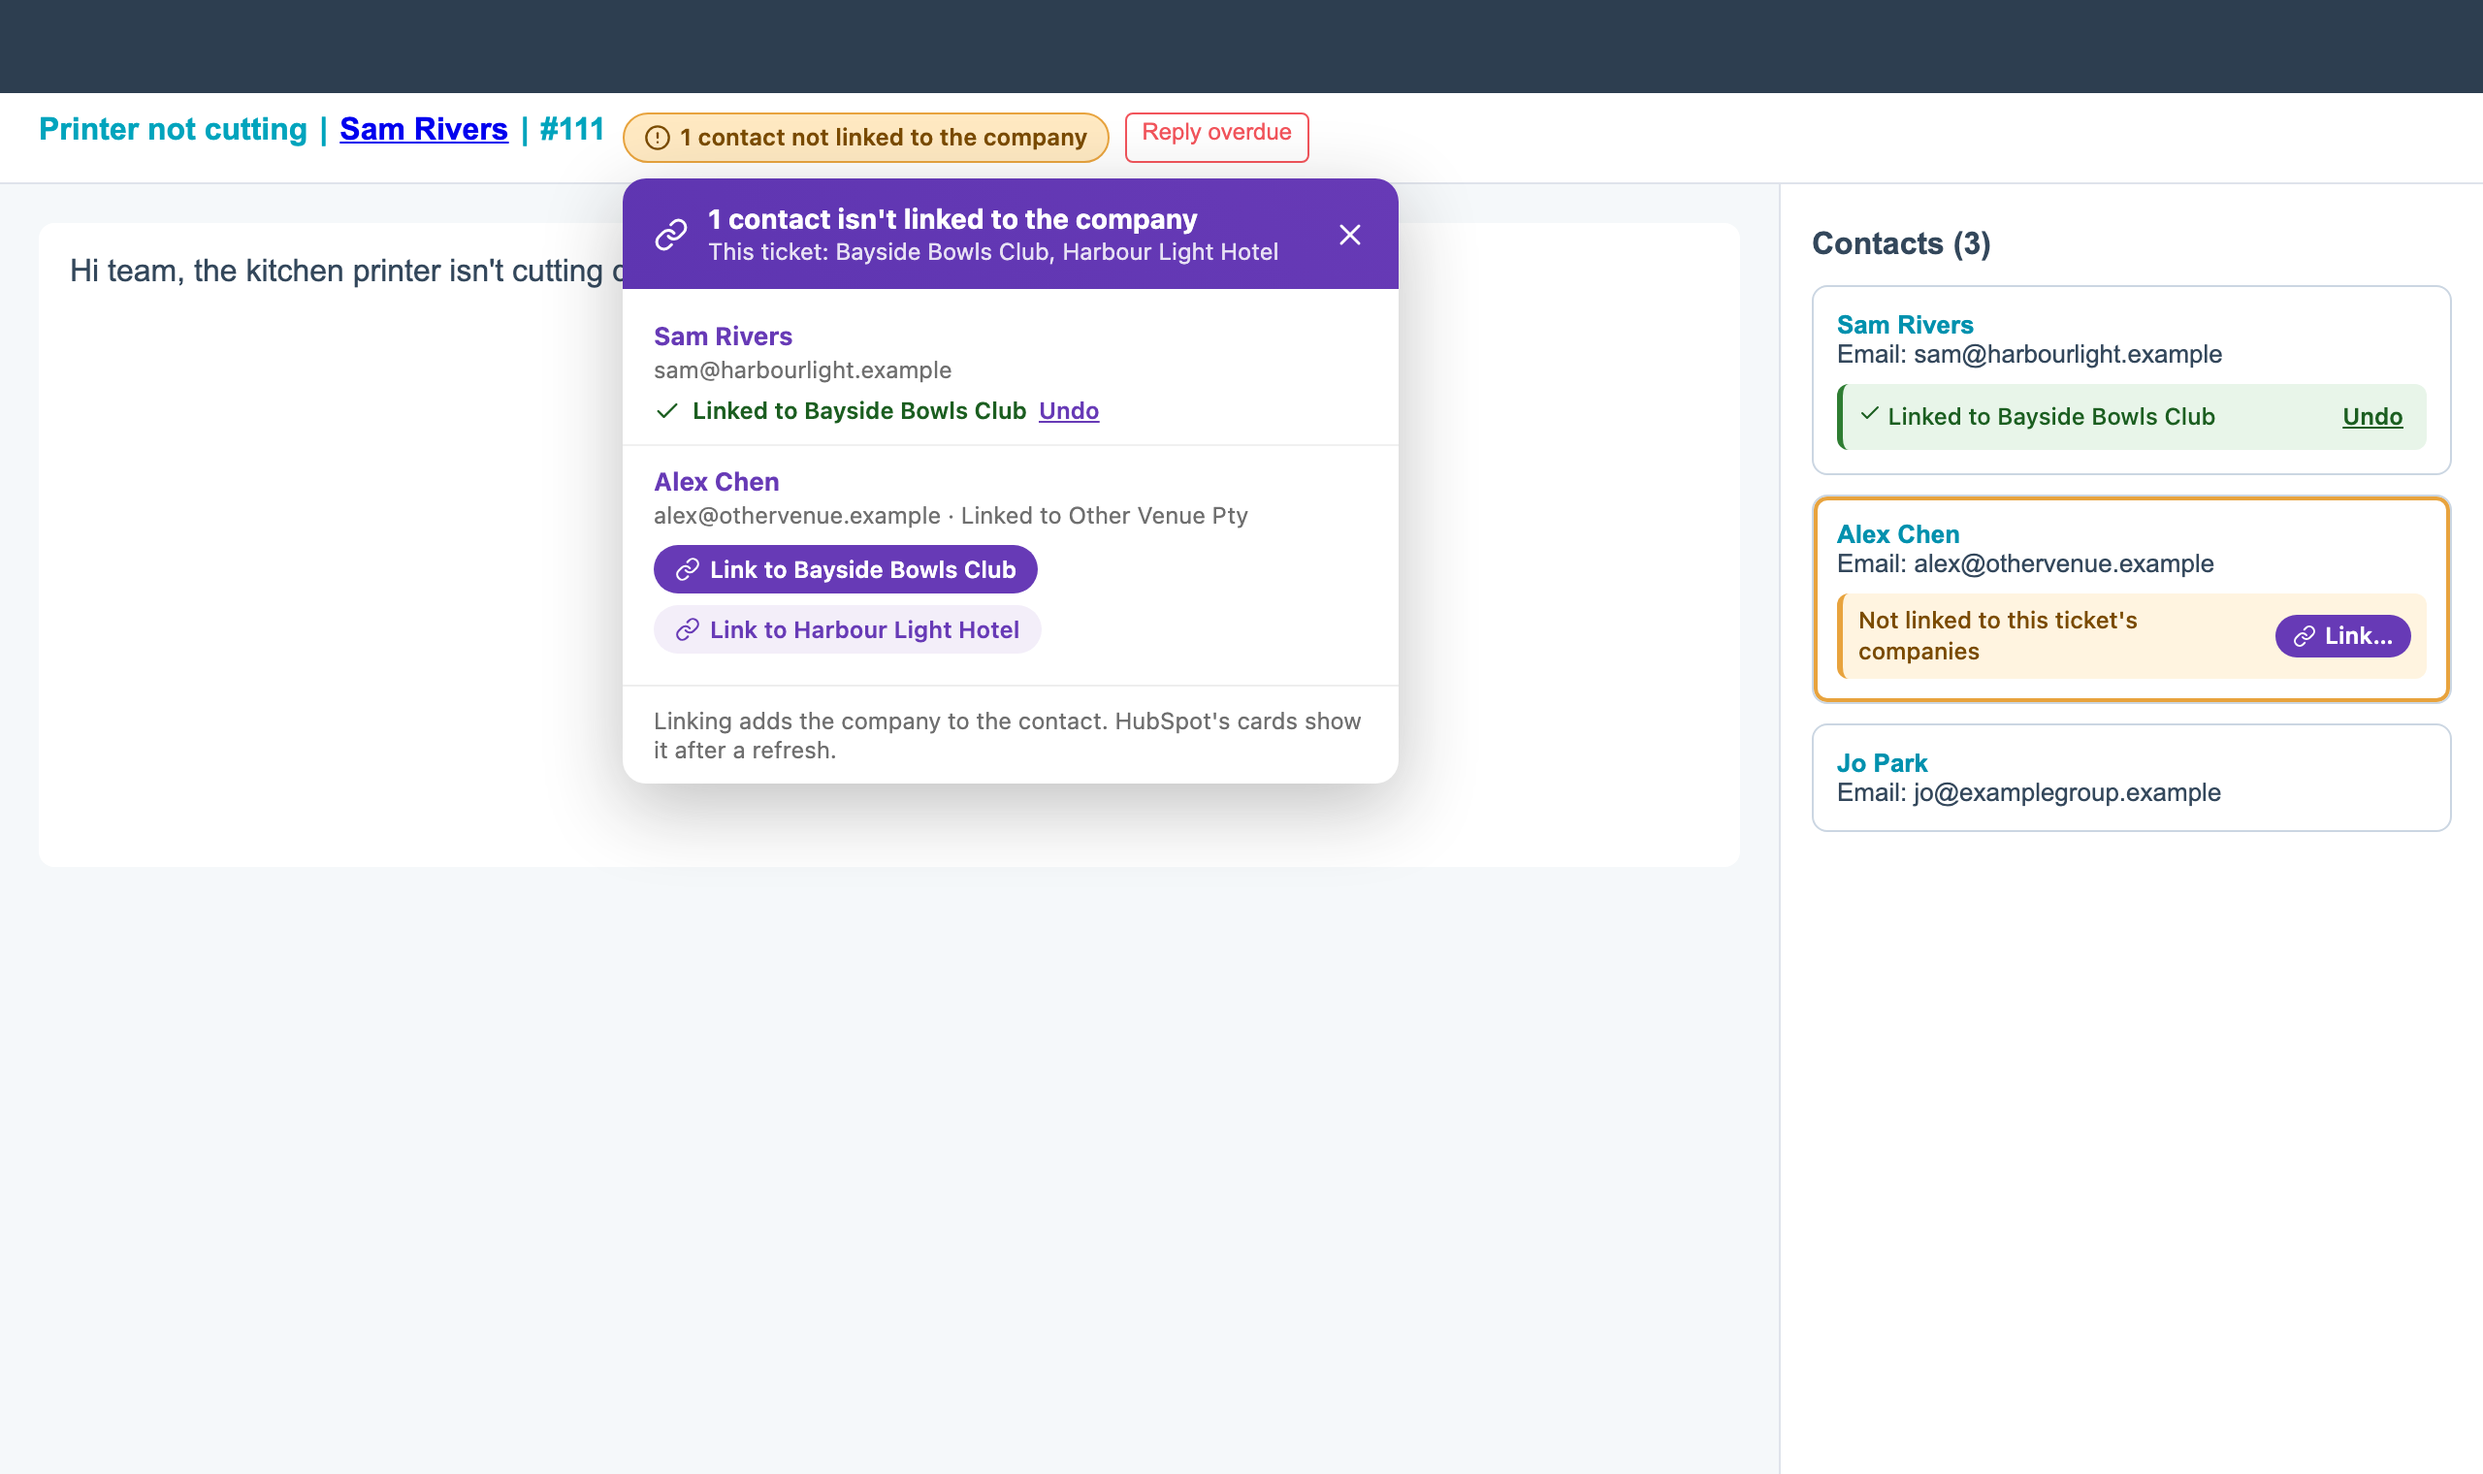
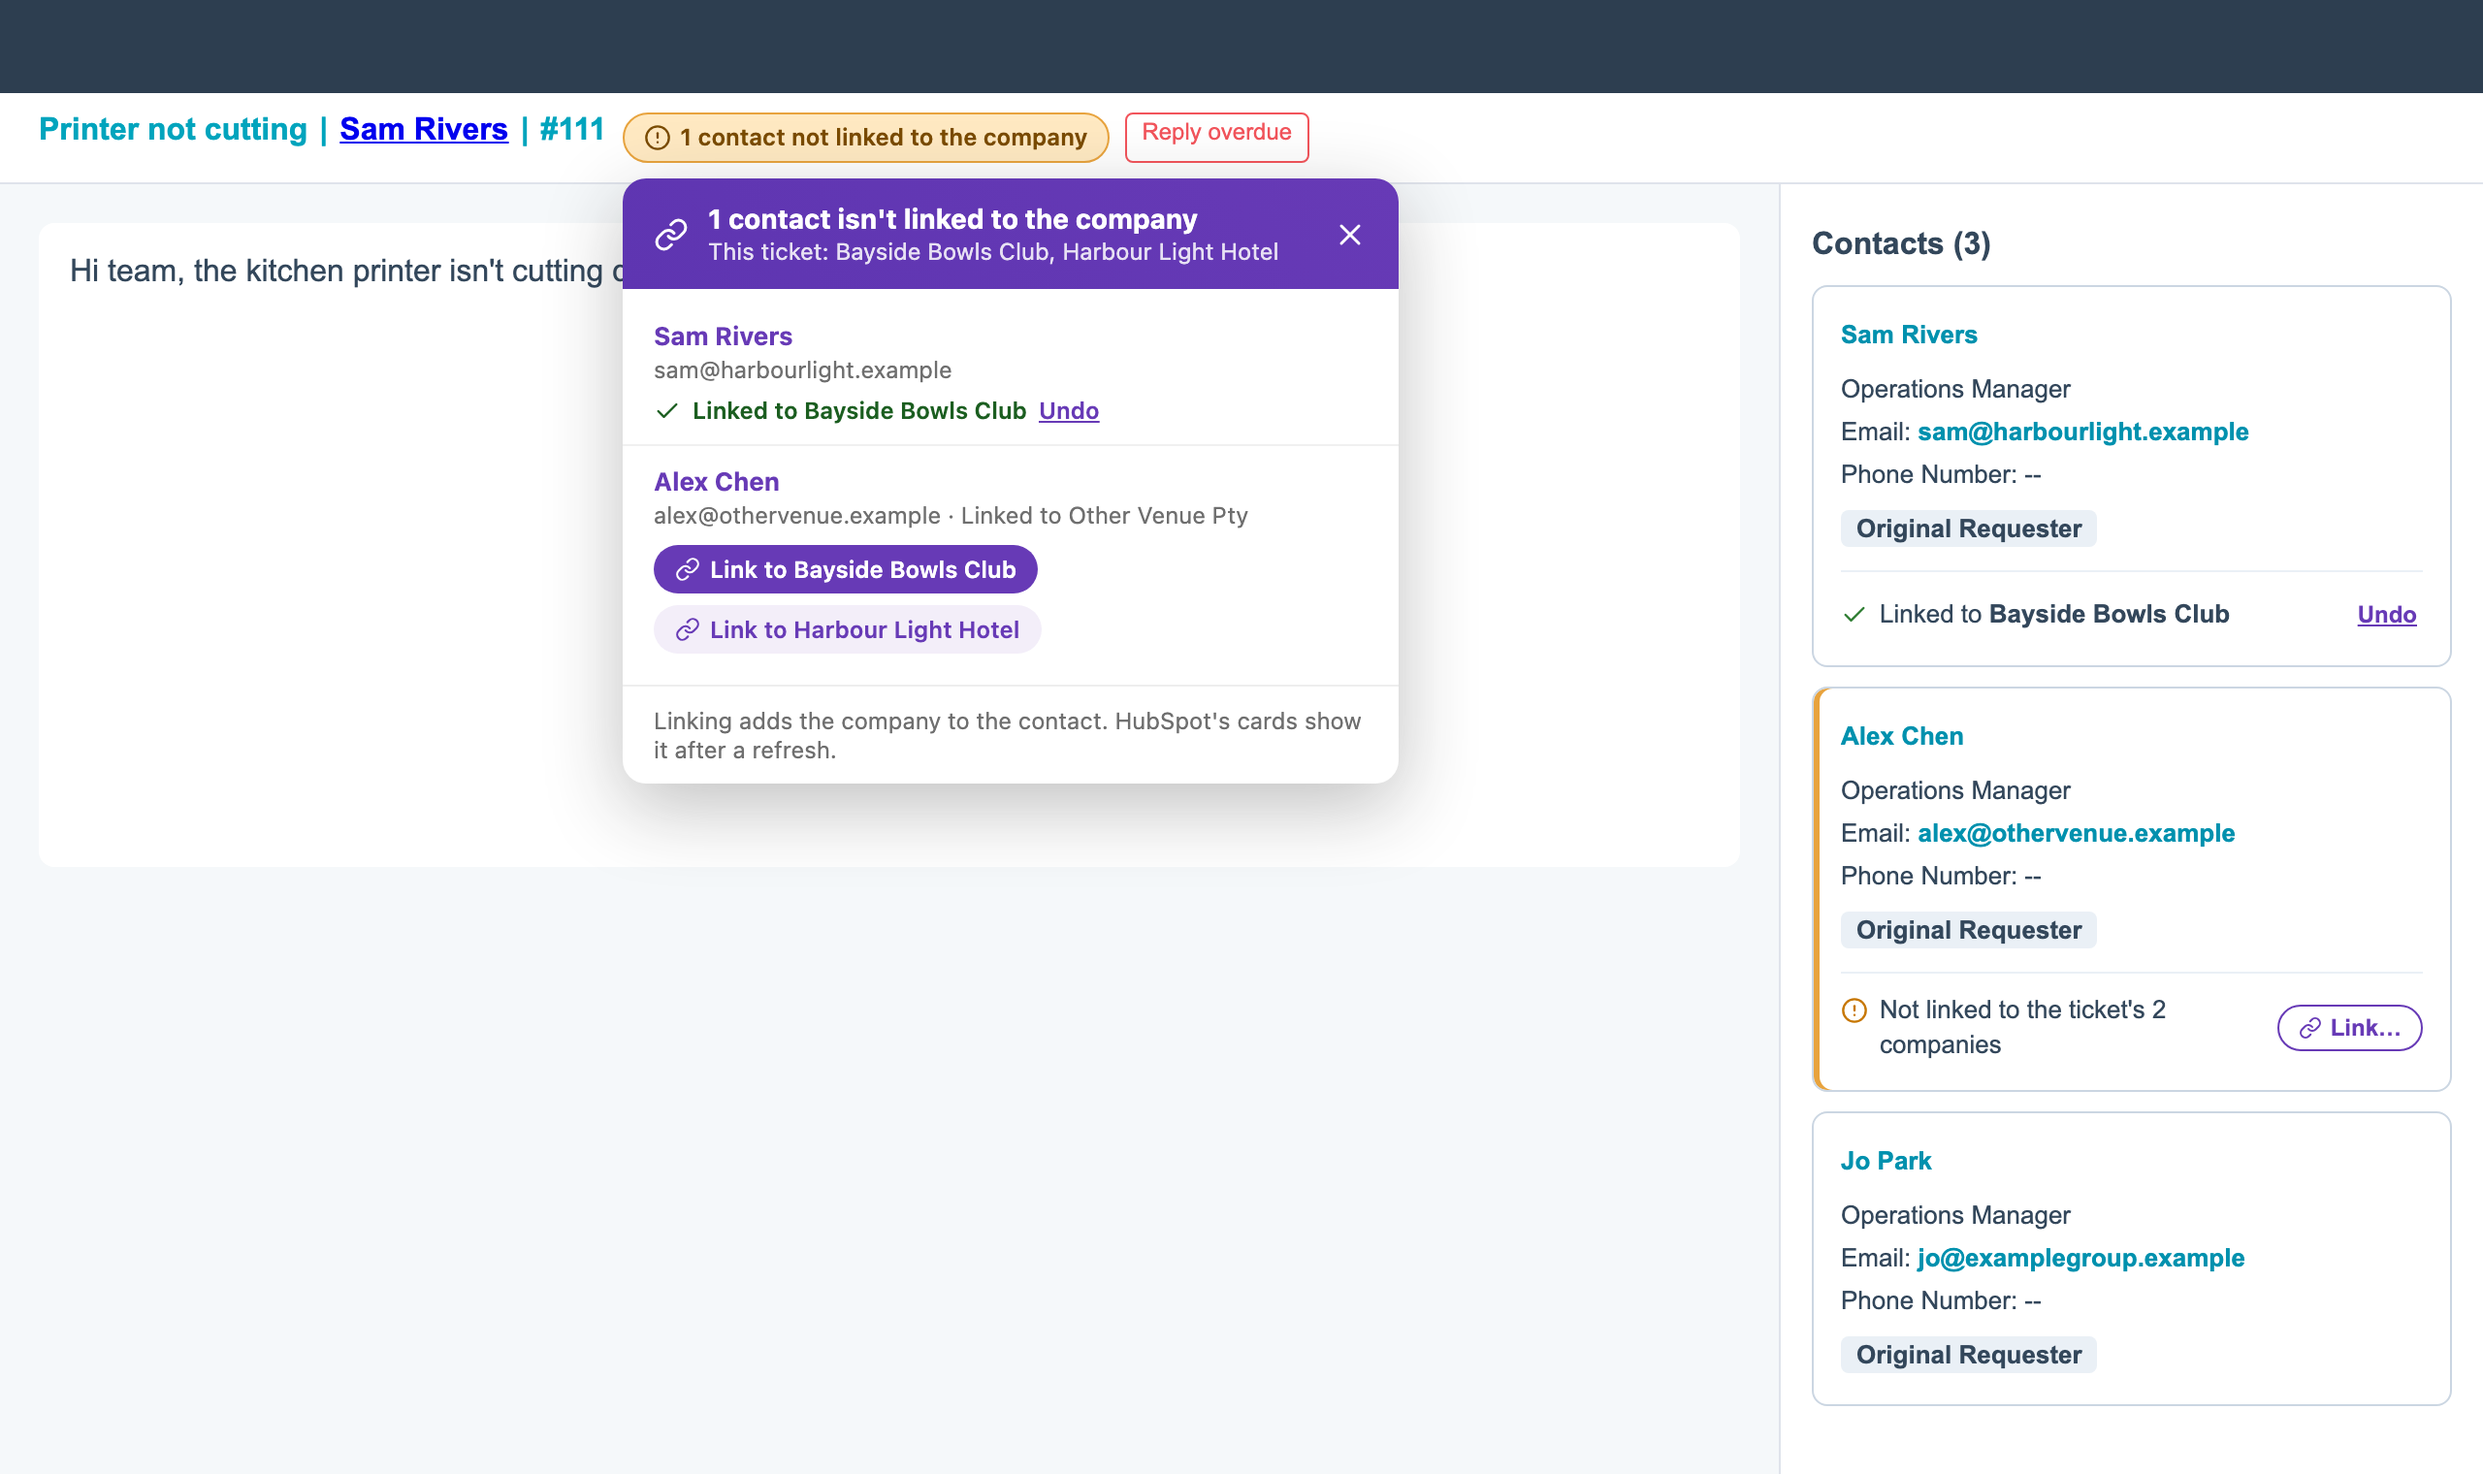
Unlinked contacts 1.0.1: tidier line on the contact card

Changed region(s): [[0.7188, 0.2164, 1.0, 0.7421], [0.75, 0.773, 0.9062, 0.9276], [0.9062, 0.6803, 0.9688, 0.7112]]

diff --git a/hubspot/unlinked-contacts.user.js b/hubspot/unlinked-contacts.user.js
@@ -1,7 +1,7 @@
 // ==UserScript==
 // @name         HubSpot: Unlinked contacts
 // @namespace    oolio-userscripts
-// @version      1.0.0
+// @version      1.0.1
 // @description  On Help Desk tickets, marks contacts who aren't linked to the ticket's company and links them in one click, with Undo.
 // @author       Stephen Shaw
 // @homepageURL  https://github.com/StephenShawBepoz/browserscripts
@@ -264,17 +264,21 @@
     .oul-chip svg { flex: none; }
     .oul-chip.floating { position: fixed; top: 64px; left: 50%; transform: translateX(-50%); z-index: 2147483646; margin: 0;
       box-shadow: 0 4px 14px rgba(34,34,34,.18); }
-    .oul-badge { display: flex; flex-wrap: wrap; align-items: center; gap: 6px; margin-top: 8px; padding: 6px 8px;
-      border-radius: 6px; background: #FFF4E0; border-left: 3px solid #E8A33D; color: #7A4B00;
-      font: 500 12px/16px Inter, system-ui, -apple-system, "Segoe UI", sans-serif; }
-    .oul-badge.ok { background: #E8F5E9; border-left-color: #2E7D32; color: #1B5E20; }
-    .oul-badge span { flex: 1 1 120px; min-width: 0; }
-    .oul-badge button { flex: none; display: inline-flex; align-items: center; gap: 4px; padding: 3px 9px; border: 0;
-      border-radius: 999px; background: #673AB6; color: #fff; cursor: pointer; font: inherit; font-weight: 600; }
-    .oul-badge button:hover { background: #5E35B1; }
-    .oul-badge button.plain { background: transparent; color: inherit; text-decoration: underline; padding: 3px 4px; }
+    /* A row at the foot of HubSpot's contact card, in the card's own font, under a thin divider */
+    .oul-badge { display: flex; align-items: center; gap: 8px; margin-top: 10px; padding-top: 10px;
+      border-top: 1px solid #EAF0F6; color: #33475B; font-family: inherit; font-size: 13px; line-height: 18px; }
+    .oul-badge .oul-text { flex: 1; min-width: 0; display: flex; align-items: flex-start; gap: 6px; }
+    .oul-badge .oul-text svg { flex: none; margin-top: 2px; color: #C77700; }
+    .oul-badge.ok .oul-text svg { color: #2E7D32; }
+    .oul-badge b { font-weight: 600; }
+    .oul-badge button { flex: none; display: inline-flex; align-items: center; gap: 4px; padding: 3px 10px;
+      border: 1px solid #673AB6; border-radius: 999px; background: #fff; color: #673AB6; cursor: pointer;
+      font: inherit; font-size: 12px; font-weight: 600; line-height: 16px; }
+    .oul-badge button:hover { background: #F3EEF9; }
+    .oul-badge button.plain { border-color: transparent; background: none; padding: 3px 2px; text-decoration: underline; }
     .oul-badge button:disabled { opacity: .6; cursor: default; }
-    .oul-chicklet { box-shadow: inset 0 0 0 2px #E8A33D !important; border-radius: 8px; }`;
+    /* A soft amber edge down the card's left side */
+    .oul-chicklet { box-shadow: inset 3px 0 0 #E8A33D !important; }`;
 
   // The list of contacts, under the chip
   const host = document.createElement('div');
@@ -436,12 +440,14 @@
         const first = state.companies[0];
         let html;
         if (c.ok && c.justLinked) {
-          html = `<span>${lucide(CHECK, 12)} Linked to ${esc(c.justLinked.name)}</span><button class="plain" type="button" data-act="undo" ${c.busy ? 'disabled' : ''}>Undo</button>`;
+          html = `<span class="oul-text">${lucide(CHECK)}<span>Linked to <b>${esc(c.justLinked.name)}</b></span></span>
+            <button class="plain" type="button" data-act="undo" ${c.busy ? 'disabled' : ''}>Undo</button>`;
         } else if (state.companies.length === 1) {
-          html = `<span>Not linked to ${esc(first.name)}</span>
-            <button type="button" data-act="link" data-company="${first.id}" ${c.busy ? 'disabled' : ''}>${lucide(LINK, 12)}${c.busy ? 'Linking…' : 'Link'}</button>`;
+          html = `<span class="oul-text">${lucide(ALERT)}<span>Not linked to <b>${esc(first.name)}</b></span></span>
+            <button type="button" data-act="link" data-company="${first.id}" title="Link ${esc(c.name)} to ${esc(first.name)}" ${c.busy ? 'disabled' : ''}>${lucide(LINK, 12)}${c.busy ? 'Linking…' : 'Link'}</button>`;
         } else {
-          html = `<span>Not linked to this ticket's companies</span><button type="button" data-act="choose">${lucide(LINK, 12)}Link…</button>`;
+          html = `<span class="oul-text">${lucide(ALERT)}<span>Not linked to the ticket's ${state.companies.length} companies</span></span>
+            <button type="button" data-act="choose">${lucide(LINK, 12)}Link…</button>`;
         }
         if (b.dataset.html !== html) { setHTML(b, html); b.dataset.html = html; }
         b.classList.toggle('ok', !!c.ok);

diff --git a/docs/unlinked-contacts.md b/docs/unlinked-contacts.md
@@ -6,7 +6,7 @@
 <sub>Made-up example. The HubSpot page around the script is a mock-up, so the real one looks a little different.</sub>
 
 1. Open a ticket in Help Desk (or a ticket's record page).
-2. If someone on the ticket isn't linked to the ticket's company, an amber chip appears next to the ticket title, for example **1 contact not linked to the company**. Their card in the *Contacts* card gets an amber outline and a line saying so.
+2. If someone on the ticket isn't linked to the ticket's company, an amber chip appears next to the ticket title, for example **1 contact not linked to the company**. Their card in the *Contacts* card gets an amber edge and a line at the bottom saying so.
 3. Click **Link** on the card, or click the chip and then **Link to** *company* in the list. The contact is linked to that company straight away.
 
 - **Undo** shows for a few seconds after you link someone and takes the link off again.

diff --git a/CHANGELOG.md b/CHANGELOG.md
@@ -28,6 +28,9 @@
 
 ## HubSpot: Unlinked contacts
 
+### 1.0.1 (21/10/2026)
+- Tidier line on the contact card: it uses HubSpot's own font, sits under a thin divider with the company name in bold, and has a lighter Link button. The card is marked with an amber edge instead of a full outline.
+
 ### 1.0.0 (21/10/2026)
 - New. On Help Desk tickets, marks contacts who aren't linked to the ticket's company (or its parent) and links them with one click, with Undo.
 
